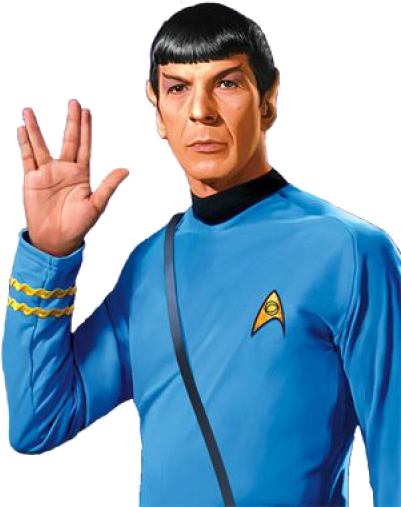
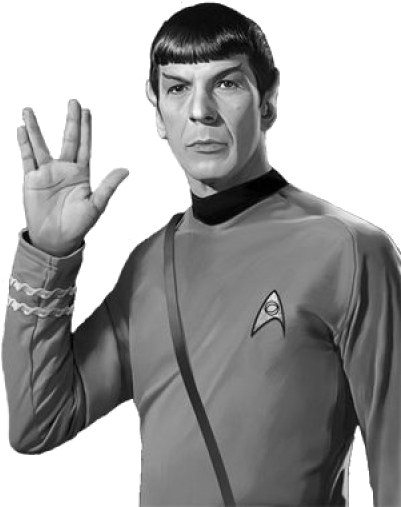
Created a new picture for spock in black and white to match other pictures

diff --git a/assets/css/style.css b/assets/css/style.css
@@ -107,7 +107,7 @@ body {
 .player-button {
     height: 100px;
     width: 100px;
-    border: solid 2px rgb(227, 174, 84);
+    border: solid 2px rgb(227, 174, 84) !important;
     border-radius: 50%;
     background-color: #ffff;
 }
